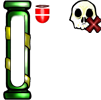
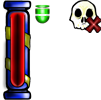
Updated The UI Of The Game 1. Added A Better Method For Handling The Dead Counts With Render Of The Score 2. Added A Texture With The Numbers For The Score 3. Added A Method For Parsing A Char Into Int 4. Added An Interface Called TextObject For Handling The Differents Kinds Of Text In The Game 5. A

Changed region(s): [[0.0297, 0.0, 0.505, 1.0]]

diff --git a/ModelingProject1/SourceCode/Characters/Players/Stats.cpp b/ModelingProject1/SourceCode/Characters/Players/Stats.cpp
@@ -4,8 +4,8 @@
 
 PlayerStats::Stats::Stats(void)
 {
-  health.pointsOfLife = 1300;
-  health.maxPointsOfLife = 1300;
+  health.pointsOfLife = 1400;
+  health.maxPointsOfLife = 1400;
 }
 
 PlayerStats::Stats::~Stats(void)
@@ -21,19 +21,19 @@ PlayerStats::Stats::~Stats(void)
 
 void PlayerStats::Stats::initializeFaceStates(std::string filename, int idPlayer)
 {
-  health.healthBar = new Image::ImageObject( Vector2f(170.0f*idPlayer + 145.0f, 15.0f),
+  health.healthBar = new Image::ImageObject( Vector2f(170.0f*idPlayer + 125.0f, 8.0f),
                                              Vector2f(29.0f, 100.0f),
                                              Vector2f(3.0f, 0.0f) ); 
 
-  health.healthForms.push_back( Image::ImageHealth( Vector2f(170.0f*idPlayer + 152.0f, 94.0f),
+  health.healthForms.push_back( Image::ImageHealth( Vector2f(170.0f*idPlayer + 132.0f, 87.0f),
 	                                                Vector2f(15.0f, 8.0f),
 												    Vector2f(35.0f, 16.0f),
 												    1 ) );
-  health.healthForms.push_back( Image::ImageHealth( Vector2f(170.0f*idPlayer + 152.0f, 89.0f),
+  health.healthForms.push_back( Image::ImageHealth( Vector2f(170.0f*idPlayer + 132.0f, 82.0f),
 	                                                Vector2f(15.0f, 5.0f),
 												    Vector2f(35.0f, 9.0f),
-												    12 ) );
-  health.healthForms.push_back( Image::ImageHealth( Vector2f(170.0f*idPlayer + 152.0f, 32.0f),
+												    13 ) );
+  health.healthForms.push_back( Image::ImageHealth( Vector2f(170.0f*idPlayer + 132.0f, 20.0f),
 	                                                Vector2f(15.0f, 4.0f),
 												    Vector2f(35.0f, 4.0f),
 												    1 ) );
@@ -46,7 +46,7 @@ void PlayerStats::Stats::initializeFaceStates(std::string filename, int idPlayer
   faces.currentFaceState = 2;
   faces.maxFaces = 3;
 
-  skullKills = new Image::ImageObject( Vector2f( 170.0f*idPlayer + 85.0f, 80.0f ),
+  skullKills = new Image::ImageObject( Vector2f( 170.0f*idPlayer + 70.0f, 90.0f ),
 	                                   Vector2f( 34.0f, 34.0f ),
 									   Vector2f( 67.0f, 0.0f ) );
 }
@@ -203,7 +203,7 @@ void PlayerStats::Stats::updateHealthBar()
   health.healthForms.at(1).setCurrentAmount((health.pointsOfLife - 100)/100);
 
   Vector2f currentPosition= health.healthForms.at(2).getPosition();
-  currentPosition.y = 32.0f + health.healthForms.at(1).getOffset().y*(health.healthForms.at(1).getMaxAmount() - 
+  currentPosition.y = 20.0f + health.healthForms.at(1).getOffset().y*(health.healthForms.at(1).getMaxAmount() - 
 	                                                                  health.healthForms.at(1).getCurrentAmount());
 
   health.healthForms.at(2).setPosition(currentPosition.x, currentPosition.y);

diff --git a/ModelingProject1/SourceCode/Characters/Players/Score.cpp b/ModelingProject1/SourceCode/Characters/Players/Score.cpp
@@ -1,9 +1,11 @@
 #include "Score.h"
 #include "GameRender.h"
 
+#include <StringParser.h>
+
 PlayerScore::Score::Score(void)
 {
-  points = 000;
+  points = 0;
 }
 
 PlayerScore::Score::~Score(void)
@@ -12,14 +14,30 @@ PlayerScore::Score::~Score(void)
 
 void PlayerScore::Score::drawDisplayPoints()
 {
-  //GameRender::drawText(pointsDisplay.getFont(), this->pointsDisplay);
+  std::string score = pointsDisplay.getDataText();
+  std::string::iterator pointsIterator = score.begin();
+  int currentNumber = 0;
+
+  Vector2f dimensionsTexture = Vector2f(140.0f, 14.0f);
+  Vector2f dimensionsNumber = Vector2f(14.0f, 14.0f);
+
+  for (pointsIterator; pointsIterator < score.end(); pointsIterator++)
+  {
+    Vector2f positionNumber = pointsDisplay.getPosition();
+    positionNumber.x = positionNumber.x + currentNumber*(14.0f);
+	GameRender::drawSpriteTexture(pointsDisplay.getTextureNumbers(), positionNumber, parseStringToInt(*pointsIterator), 
+		                          dimensionsTexture.x, dimensionsTexture.y, 
+								  dimensionsNumber.x, dimensionsNumber.y);
+    currentNumber++;
+  }
 }
 
-void PlayerScore::Score::initializeTextAndFonts(Font::GameFont* font, std::string text, int idNumberPlayer)
+void PlayerScore::Score::initializeTextAndFonts(std::string text, int idNumberPlayer, std::string filename)
 {
-  /*pointsDisplay = Text::GameText( font, text, Vector2f(120.0f*(idNumberPlayer) + 120.0f, 95.0f),
-	                                          Vector2f(50.0f, 20.0f) );
-  pointsDisplay.setDataText( points );*/
+  pointsDisplay = Text::ScoreText( text, Vector2f(170.0f*(idNumberPlayer) + 108.0f, 107.0f),
+	                                     Vector2f(50.0f, 20.0f) );
+  pointsDisplay.initializeNumbersTexture(filename);
+  pointsDisplay.setDataText( points );
 }
 
 void PlayerScore::Score::addPoints(int value)

diff --git a/ModelingProject1/SourceCode/Graphics/Font/GameText.h b/ModelingProject1/SourceCode/Graphics/Font/GameText.h
@@ -3,36 +3,26 @@
 #include <windows.h>
 #include <GL/gl.h>
 
-#include "Vector.h"
-#include "StringParser.h"
+#include <TextObject.h>
 
 #include "GameFont.h"
 
 namespace Text
 {
-  class GameText
+  class GameText : public TextObject
   {
     public:
-     GameText(Font::GameFont* font, std::string text, Vector2f pos, Vector2f off);
-     GameText(){};
+     GameText(std::string text, Vector2f pos, Vector2f off);
      ~GameText(void);
+
+	 void initializeFont(Font::GameFont* newFont);
 
      Font::GameFont* getFont() { return font; }
 
-     std::string getDataText() { return dataText; }
-
-     Vector2f getPosition() { return position; }
-
-     Vector2f getOffset() { return offset; }
-     void setOffset(Vector2f off) { offset = off; }
-
-     void setDataText(int data);
+	 void setDataText(int data);
 
     private:
      Font::GameFont* font;
-     std::string dataText;
-     Vector2f position;
-     Vector2f offset;
   };
 }
 

diff --git a/ModelingProject1/SourceCode/Graphics/GameRender.h b/ModelingProject1/SourceCode/Graphics/GameRender.h
@@ -24,7 +24,7 @@ class GameRender
    static void drawSpriteTexture(GLuint texture, Vector2f pos, int currentFrame, 
                                  GLfloat widthTexture, GLfloat heightTexture, 
                                  GLfloat widthSprite, GLfloat heightSprite,
-                                 int direction, int state);
+                                 int direction = 0, int state = 0);
    static void drawSpecificTexture(GLuint texture, Vector2f pos, Vector2f offset, GLfloat widthDrawTexture, GLfloat heightDrawTexture);
    static void drawButton(GLuint texture, Vector2f pos, Vector2f dimensions, Vector2f offset);
    static void drawLayerTexture(GLuint texture, Vector2f offset, GLfloat widthScreen, 

diff --git a/ModelingProject1/SourceCode/Game States/Levels/SLevelOneJapan.cpp b/ModelingProject1/SourceCode/Game States/Levels/SLevelOneJapan.cpp
@@ -194,13 +194,6 @@ void SLevelOneJapan::initializePlayers()
   framerateAnimationsVector.push_back( 100 );
   framerateAnimationsVector.push_back( 100 );
 
-  SDL_Color color;
-  color.r = 10;
-  color.g = 10;
-  color.b = 175;
-  int sizeFont = 20;
-  std::string filenameFont = "Resources/GUI/Fonts/orbitron-black.ttf";
-
   for (std::string::size_type i = 0; i < gameCore->getPlayersToInitialize().size(); i++)
   {
     switch(gameCore->getPlayersToInitialize().at(i))
@@ -230,6 +223,8 @@ void SLevelOneJapan::initializePlayers()
 		break;
       }
     }
+
+	gameCore->getPlayersList().at(i).getScore()->initializeTextAndFonts("", (int)i, "Resources/UI/Numbers.png");
   }
 
   maxSpeedPanda.clear();

diff --git a/ModelingProject1/SourceCode/Graphics/Font/GameText.cpp b/ModelingProject1/SourceCode/Graphics/Font/GameText.cpp
@@ -1,26 +1,22 @@
 
 #include "GameText.h"
 
-Text::GameText::GameText(Font::GameFont* font, std::string text, Vector2f pos, Vector2f off)
+Text::GameText::GameText(std::string text, Vector2f pos, Vector2f off)
+	: TextObject(text, pos, off)
 {
-  this->font = font;
-  dataText = text;
-  position = pos;
-  offset = off;
 }
 
 Text::GameText::~GameText(void)
 {
+  dataText.clear();
+  delete font;
+}
+
+void Text::GameText::initializeFont(Font::GameFont* newFont)
+{
+  font = newFont;
 }
 
 void Text::GameText::setDataText(int data)
 {
-  dataText = parseDataToString(data);
-  if ( data < 100 )
-  {
-	for ( ; dataText.size() < 3; )
-	{
-	  dataText += "0" + dataText;
-	}
-  }
 }

diff --git a/ModelingProject1/SourceCode/TextObject.h b/ModelingProject1/SourceCode/TextObject.h
@@ -1,0 +1,31 @@
+#pragma once
+
+#include "Vector.h"
+
+#include <string>
+
+namespace Text
+{
+  class TextObject
+  {
+    public:
+     TextObject(){};
+     virtual ~TextObject();
+
+     std::string getDataText() { return dataText; }
+
+     Vector2f getPosition() { return position; }
+
+     Vector2f getOffset() { return offset; }
+     void setOffset(Vector2f off) { offset = off; }
+
+     virtual void setDataText(int data) = 0;
+	 virtual void setDataText(std::string data) { dataText = data; }
+
+    protected:
+	 TextObject(std::string text, Vector2f pos, Vector2f off);
+     std::string dataText;
+     Vector2f position;
+     Vector2f offset;
+  };
+}

diff --git a/ModelingProject1/SourceCode/ScoreText.cpp b/ModelingProject1/SourceCode/ScoreText.cpp
@@ -1,0 +1,34 @@
+
+#include <ScoreText.h>
+
+#include <GameRender.h>
+
+#include <StringParser.h>
+
+Text::ScoreText::ScoreText(std::string text, Vector2f pos, Vector2f off)
+	: TextObject(text, pos, off)
+{
+}
+
+Text::ScoreText::~ScoreText()
+{
+  dataText.clear();
+  glDeleteTextures(1, &textureNumbers);
+}
+
+void Text::ScoreText::initializeNumbersTexture(std::string filename)
+{
+  textureNumbers = GameRender::loadTexture(filename);
+}
+
+void Text::ScoreText::setDataText(int data)
+{
+  dataText = parseDataToString(data);
+  if ( data < 100 )
+  {
+	for ( ; dataText.size() < 3; )
+	{
+	  dataText = "0" + dataText;
+	}
+  }
+}

diff --git a/ModelingProject1/SourceCode/Characters/Players/Score.h b/ModelingProject1/SourceCode/Characters/Players/Score.h
@@ -1,6 +1,6 @@
 #pragma once
 
-#include "GameText.h"
+#include "ScoreText.h"
 
 namespace PlayerScore
 {
@@ -12,13 +12,13 @@ namespace PlayerScore
 
     void drawDisplayPoints();
 
-    void initializeTextAndFonts(Font::GameFont* font, std::string text, int idNumberPlayer);
+    void initializeTextAndFonts(std::string text, int idNumberPlayer, std::string filename);
 
     int getPoints() { return points; }
     void addPoints(int value);
 
    private:
-    Text::GameText pointsDisplay;
+    Text::ScoreText pointsDisplay;
     int points;
   };
 }

diff --git a/ModelingProject1/SourceCode/Characters/Players/MeerkatP2.cpp b/ModelingProject1/SourceCode/Characters/Players/MeerkatP2.cpp
@@ -25,7 +25,7 @@ void Characters::MeerkatP2::initializeCharacter(SpriteData::IDSprites id, std::s
   score = new PlayerScore::Score();
 
   inputMapper = new InputMapping::GameInputMapper("Resources/Input/KeyboardContextList.txt");
-  inputMapper = new InputMapping::GameInputMapper("Resources/Input/GamepadContextList.txt");
+  //inputMapper = new InputMapping::GameInputMapper("Resources/Input/GamepadContextList.txt");
 
   //inputMapper->pushContext("gamepadcontext");
   inputMapper->pushContext("keyboardcontext");

diff --git a/ModelingProject1/SourceCode/ScoreText.h b/ModelingProject1/SourceCode/ScoreText.h
@@ -1,0 +1,23 @@
+#pragma once
+
+#include <TextObject.h>
+
+namespace Text
+{
+  class ScoreText : public TextObject
+  {
+    public:
+     ScoreText(std::string text, Vector2f pos, Vector2f off);
+	 ScoreText() { }
+	 ~ScoreText();
+
+	 void initializeNumbersTexture(std::string filename);
+
+	 GLuint getTextureNumbers() { return textureNumbers; }
+
+	 void setDataText(int data);
+
+    private:
+	 GLuint textureNumbers;
+  };
+}

diff --git a/ModelingProject1/SourceCode/Graphics/Font/GameFont.h b/ModelingProject1/SourceCode/Graphics/Font/GameFont.h
@@ -9,7 +9,7 @@ namespace Font
   class GameFont
   {
     public:
-     GameFont(TTF_Font *newFont, SDL_Color color, std::string filename, int sizeFont, int idFont);
+     GameFont(TTF_Font* newFont, SDL_Color color, std::string filename, int sizeFont, int idFont);
      GameFont();
 
      GameFont(const GameFont& cSource);
